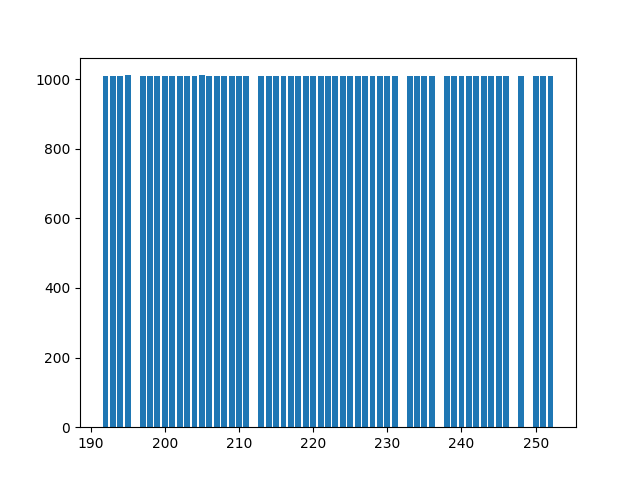
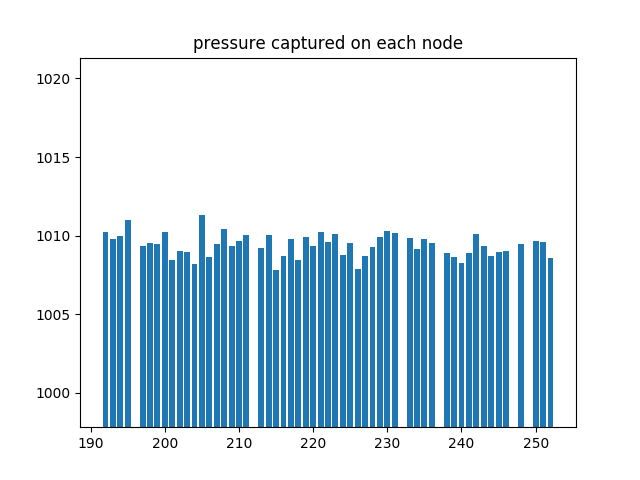
Fixed pressure hist & added arguments

diff --git a/Scripts/hist.py b/Scripts/hist.py
@@ -28,7 +28,12 @@ def histogram(pathname, datatype):
     data = tab_from_data(pathname, datatype)
     lnode, lvalue = separate_data(data)
     if datatype == "pressure":
-        plt.bar(lnode, height=lvalue, bottom=900)
+        plt.bar(lnode, height=lvalue, bottom=0)
+        plt.axis(ymin=min(lvalue)-10, ymax=max(lvalue)+10)
     else:
         plt.bar(lnode, height=lvalue)
-    plt.savefig("pathname/hist.png")
+    plt.title(datatype + " captured on each node")
+    plt.savefig("hist.png")
+
+
+histogram("/home/sonzero/Documents/Work/pred-fit_iot_lab_collecte-de-donnees-auto/Scripts/logDataCollector09-12-2019-17_45_30.txt", "pressure")
